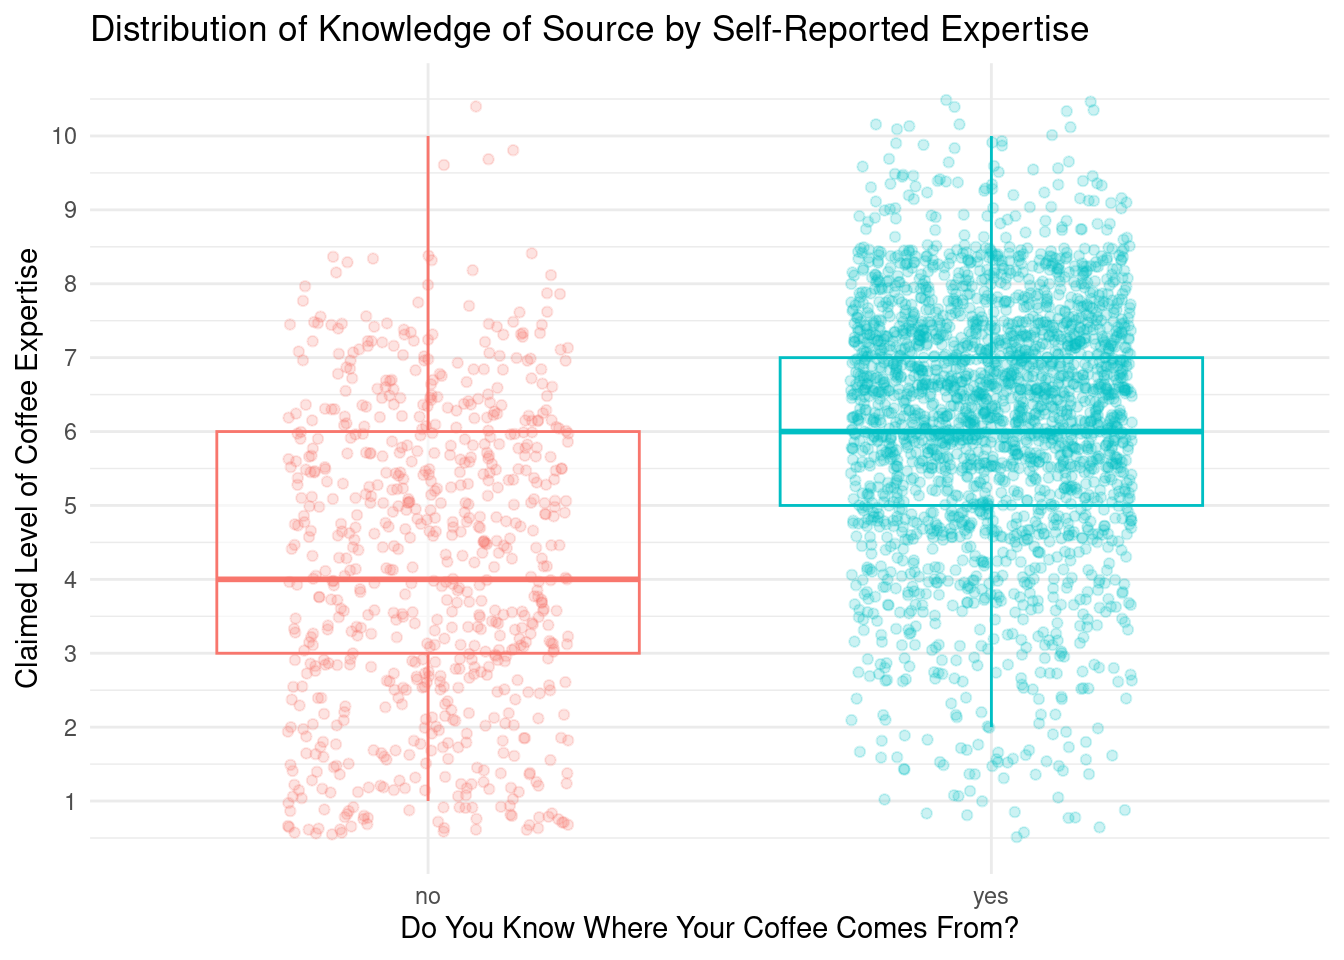
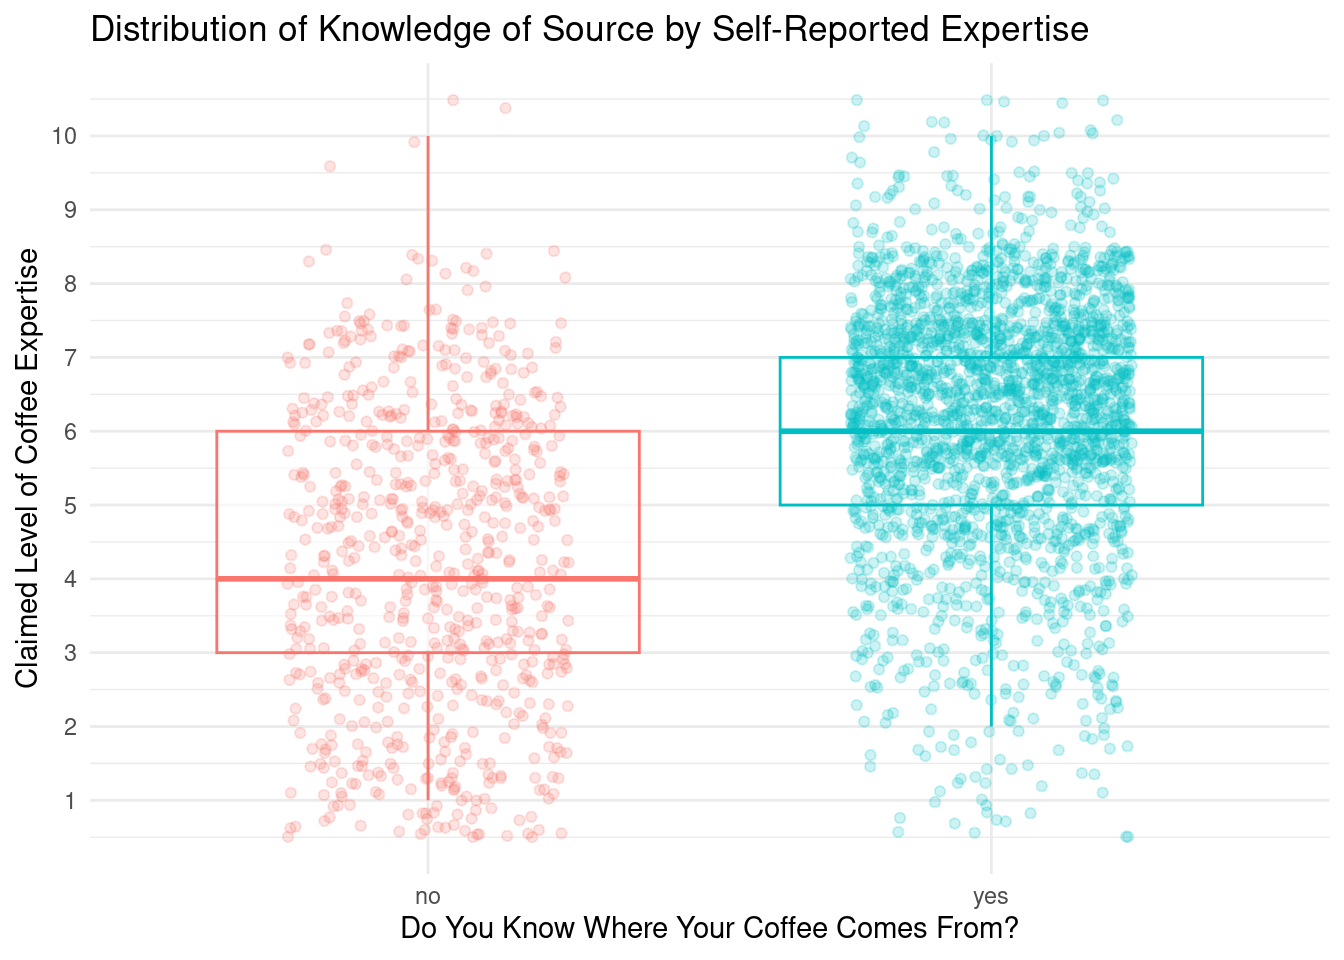
Built site for gh-pages

Changed region(s): [[0.625, 0.0938, 0.875, 0.875], [0.1875, 0.25, 0.4375, 0.875], [0.3438, 0.0938, 0.375, 0.125]]

diff --git a/tidytuesday2024/tidy20.html b/tidytuesday2024/tidy20.html
@@ -177,7 +177,7 @@ pre > code.sourceCode > span > a:first-child::before { text-decoration: underlin
   <li><a href="#results" id="toc-results" class="nav-link" data-scroll-target="#results">Results</a>
   <ul class="collapse">
   <li><a href="#drill-down" id="toc-drill-down" class="nav-link" data-scroll-target="#drill-down">Drill Down</a></li>
-  <li><a href="#bad-analysis" id="toc-bad-analysis" class="nav-link" data-scroll-target="#bad-analysis">Bad Analysis</a></li>
+  <li><a href="#responsible-analysis" id="toc-responsible-analysis" class="nav-link" data-scroll-target="#responsible-analysis">Responsible Analysis</a></li>
   </ul></li>
   </ul>
 </nav>
@@ -206,7 +206,7 @@ pre > code.sourceCode > span > a:first-child::before { text-decoration: underlin
 
 <section id="overview" class="level2">
 <h2 class="anchored" data-anchor-id="overview">Overview</h2>
-<p>In my first ever #tidytuesday we are taking a look at a coffee survey. I’ll make a note up front that I am prioritizing self education over analytical integrity here. Curiosity is in the drivers seat, so we are going to see where this takes us. Anything I present here is not intended to draw any conclusions or correlations. (I tried, and any statistically sound correlation just wasn’t there with this data). So let’s do some bad analytics instead.</p>
+<p>In my first ever #tidytuesday we are taking a look at a coffee survey. I’ll make a note up front that I am prioritizing self education over analytical integrity here. Curiosity is in the drivers seat, so we are going to see where this takes us. Anything I present here is not intended to draw any conclusions or correlations (I tried, and any statistically sound correlation just wasn’t there with this data).</p>
 </section>
 <section id="etl-let" class="level2">
 <h2 class="anchored" data-anchor-id="etl-let">ETL (LET)</h2>
@@ -216,7 +216,8 @@ pre > code.sourceCode > span > a:first-child::before { text-decoration: underlin
 <div class="cell">
 <div class="sourceCode cell-code" id="cb1"><pre class="sourceCode r code-with-copy"><code class="sourceCode r"><span id="cb1-1"><a href="#cb1-1" aria-hidden="true" tabindex="-1"></a><span class="fu">library</span>(tidytuesdayR)</span>
 <span id="cb1-2"><a href="#cb1-2" aria-hidden="true" tabindex="-1"></a><span class="fu">suppressMessages</span>(<span class="fu">library</span>(tidyverse))</span>
-<span id="cb1-3"><a href="#cb1-3" aria-hidden="true" tabindex="-1"></a><span class="fu">library</span>(knitr)</span></code><button title="Copy to Clipboard" class="code-copy-button"><i class="bi"></i></button></pre></div>
+<span id="cb1-3"><a href="#cb1-3" aria-hidden="true" tabindex="-1"></a><span class="fu">library</span>(ggforce)</span>
+<span id="cb1-4"><a href="#cb1-4" aria-hidden="true" tabindex="-1"></a><span class="fu">library</span>(knitr)</span></code><button title="Copy to Clipboard" class="code-copy-button"><i class="bi"></i></button></pre></div>
 </div>
 </section>
 <section id="extract" class="level3">
@@ -242,8 +243,9 @@ pre > code.sourceCode > span > a:first-child::before { text-decoration: underlin
 <span id="cb3-9"><a href="#cb3-9" aria-hidden="true" tabindex="-1"></a>                  most_paid, most_willing, value_cafe, spent_equipment,</span>
 <span id="cb3-10"><a href="#cb3-10" aria-hidden="true" tabindex="-1"></a>                  value_equipment, gender, education_level, ethnicity_race,</span>
 <span id="cb3-11"><a href="#cb3-11" aria-hidden="true" tabindex="-1"></a>                  employment_status, number_children, political_affiliation</span>
-<span id="cb3-12"><a href="#cb3-12" aria-hidden="true" tabindex="-1"></a>                  ), as.factor)</span>
-<span id="cb3-13"><a href="#cb3-13" aria-hidden="true" tabindex="-1"></a>         )</span></code><button title="Copy to Clipboard" class="code-copy-button"><i class="bi"></i></button></pre></div>
+<span id="cb3-12"><a href="#cb3-12" aria-hidden="true" tabindex="-1"></a>                  ), as.factor</span>
+<span id="cb3-13"><a href="#cb3-13" aria-hidden="true" tabindex="-1"></a>                )</span>
+<span id="cb3-14"><a href="#cb3-14" aria-hidden="true" tabindex="-1"></a>         )</span></code><button title="Copy to Clipboard" class="code-copy-button"><i class="bi"></i></button></pre></div>
 </div>
 </section>
 </section>
@@ -264,7 +266,7 @@ pre > code.sourceCode > span > a:first-child::before { text-decoration: underlin
 <span id="cb4-6"><a href="#cb4-6" aria-hidden="true" tabindex="-1"></a>                 <span class="st">"dairy"</span>,</span>
 <span id="cb4-7"><a href="#cb4-7" aria-hidden="true" tabindex="-1"></a>                 <span class="st">"sweetener"</span>,</span>
 <span id="cb4-8"><a href="#cb4-8" aria-hidden="true" tabindex="-1"></a>                 <span class="st">"why_drink"</span></span>
-<span id="cb4-9"><a href="#cb4-9" aria-hidden="true" tabindex="-1"></a>)</span>
+<span id="cb4-9"><a href="#cb4-9" aria-hidden="true" tabindex="-1"></a>                 )</span>
 <span id="cb4-10"><a href="#cb4-10" aria-hidden="true" tabindex="-1"></a></span>
 <span id="cb4-11"><a href="#cb4-11" aria-hidden="true" tabindex="-1"></a><span class="co"># Drop multi-value columns before dropping NA cells</span></span>
 <span id="cb4-12"><a href="#cb4-12" aria-hidden="true" tabindex="-1"></a>strip_tib <span class="ot">&lt;-</span> clean_tib <span class="sc">%&gt;%</span></span>
@@ -282,17 +284,22 @@ pre > code.sourceCode > span > a:first-child::before { text-decoration: underlin
 <div class="sourceCode cell-code" id="cb5"><pre class="sourceCode r code-with-copy"><code class="sourceCode r"><span id="cb5-1"><a href="#cb5-1" aria-hidden="true" tabindex="-1"></a>expertiseVknowsource_tib <span class="ot">&lt;-</span> strip_tib <span class="sc">%&gt;%</span></span>
 <span id="cb5-2"><a href="#cb5-2" aria-hidden="true" tabindex="-1"></a>  <span class="fu">select</span>(expertise, know_source)</span>
 <span id="cb5-3"><a href="#cb5-3" aria-hidden="true" tabindex="-1"></a></span>
-<span id="cb5-4"><a href="#cb5-4" aria-hidden="true" tabindex="-1"></a><span class="fu">ggplot</span>(expertiseVknowsource_tib, <span class="fu">aes</span>(<span class="at">x =</span> know_source, <span class="at">y =</span> <span class="fu">as.numeric</span>(expertise), <span class="at">color =</span> know_source)) <span class="sc">+</span></span>
-<span id="cb5-5"><a href="#cb5-5" aria-hidden="true" tabindex="-1"></a>  <span class="fu">geom_boxplot</span>(<span class="at">outlier.shape =</span> <span class="cn">NA</span>, <span class="at">alpha =</span> <span class="fl">0.6</span>) <span class="sc">+</span></span>
-<span id="cb5-6"><a href="#cb5-6" aria-hidden="true" tabindex="-1"></a>  <span class="fu">geom_jitter</span>(<span class="at">width =</span> <span class="fl">0.25</span>, <span class="at">height =</span> <span class="fl">0.5</span>, <span class="at">alpha =</span> <span class="fl">0.2</span>) <span class="sc">+</span></span>
-<span id="cb5-7"><a href="#cb5-7" aria-hidden="true" tabindex="-1"></a>  <span class="fu">scale_y_continuous</span>(<span class="at">breaks =</span> <span class="fu">seq</span>(<span class="dv">0</span>, <span class="dv">10</span>, <span class="at">by =</span> <span class="dv">1</span>)) <span class="sc">+</span></span>
-<span id="cb5-8"><a href="#cb5-8" aria-hidden="true" tabindex="-1"></a>  <span class="fu">labs</span>(</span>
-<span id="cb5-9"><a href="#cb5-9" aria-hidden="true" tabindex="-1"></a>    <span class="at">title =</span> <span class="st">"Distribution of Knowledge of Source by Self-Reported Expertise"</span>,</span>
-<span id="cb5-10"><a href="#cb5-10" aria-hidden="true" tabindex="-1"></a>    <span class="at">x =</span> <span class="st">"Do You Know Where Your Coffee Comes From?"</span>,</span>
-<span id="cb5-11"><a href="#cb5-11" aria-hidden="true" tabindex="-1"></a>    <span class="at">y =</span> <span class="st">"Claimed Level of Coffee Expertise"</span></span>
-<span id="cb5-12"><a href="#cb5-12" aria-hidden="true" tabindex="-1"></a>  ) <span class="sc">+</span></span>
-<span id="cb5-13"><a href="#cb5-13" aria-hidden="true" tabindex="-1"></a>  <span class="fu">theme_minimal</span>() <span class="sc">+</span></span>
-<span id="cb5-14"><a href="#cb5-14" aria-hidden="true" tabindex="-1"></a>  <span class="fu">theme</span>(<span class="at">legend.position =</span> <span class="st">"none"</span>)</span></code><button title="Copy to Clipboard" class="code-copy-button"><i class="bi"></i></button></pre></div>
+<span id="cb5-4"><a href="#cb5-4" aria-hidden="true" tabindex="-1"></a><span class="fu">set.seed</span>(<span class="dv">357</span>)</span>
+<span id="cb5-5"><a href="#cb5-5" aria-hidden="true" tabindex="-1"></a>jitter <span class="ot">&lt;-</span> <span class="fu">position_jitter</span>(<span class="at">width =</span> <span class="fl">0.25</span>, <span class="at">height =</span> <span class="fl">0.5</span>)</span>
+<span id="cb5-6"><a href="#cb5-6" aria-hidden="true" tabindex="-1"></a></span>
+<span id="cb5-7"><a href="#cb5-7" aria-hidden="true" tabindex="-1"></a>p <span class="ot">&lt;-</span> <span class="fu">ggplot</span>(expertiseVknowsource_tib, <span class="fu">aes</span>(<span class="at">x =</span> know_source, <span class="at">y =</span> <span class="fu">as.numeric</span>(expertise), <span class="at">color =</span> know_source)) <span class="sc">+</span></span>
+<span id="cb5-8"><a href="#cb5-8" aria-hidden="true" tabindex="-1"></a>  <span class="fu">geom_boxplot</span>(<span class="at">outlier.shape =</span> <span class="cn">NA</span>, <span class="at">alpha =</span> <span class="fl">0.6</span>) <span class="sc">+</span></span>
+<span id="cb5-9"><a href="#cb5-9" aria-hidden="true" tabindex="-1"></a>  <span class="fu">geom_jitter</span>(<span class="at">position =</span> jitter, <span class="at">alpha =</span> <span class="fl">0.2</span>) <span class="sc">+</span></span>
+<span id="cb5-10"><a href="#cb5-10" aria-hidden="true" tabindex="-1"></a>  <span class="fu">scale_y_continuous</span>(<span class="at">breaks =</span> <span class="fu">seq</span>(<span class="dv">0</span>, <span class="dv">10</span>, <span class="at">by =</span> <span class="dv">1</span>)) <span class="sc">+</span></span>
+<span id="cb5-11"><a href="#cb5-11" aria-hidden="true" tabindex="-1"></a>  <span class="fu">labs</span>(</span>
+<span id="cb5-12"><a href="#cb5-12" aria-hidden="true" tabindex="-1"></a>    <span class="at">title =</span> <span class="st">"Distribution of Knowledge of Source by Self-Reported Expertise"</span>,</span>
+<span id="cb5-13"><a href="#cb5-13" aria-hidden="true" tabindex="-1"></a>    <span class="at">x =</span> <span class="st">"Do You Know Where Your Coffee Comes From?"</span>,</span>
+<span id="cb5-14"><a href="#cb5-14" aria-hidden="true" tabindex="-1"></a>    <span class="at">y =</span> <span class="st">"Claimed Level of Coffee Expertise"</span></span>
+<span id="cb5-15"><a href="#cb5-15" aria-hidden="true" tabindex="-1"></a>  ) <span class="sc">+</span></span>
+<span id="cb5-16"><a href="#cb5-16" aria-hidden="true" tabindex="-1"></a>  <span class="fu">theme_minimal</span>() <span class="sc">+</span></span>
+<span id="cb5-17"><a href="#cb5-17" aria-hidden="true" tabindex="-1"></a>  <span class="fu">theme</span>(<span class="at">legend.position =</span> <span class="st">"none"</span>)</span>
+<span id="cb5-18"><a href="#cb5-18" aria-hidden="true" tabindex="-1"></a></span>
+<span id="cb5-19"><a href="#cb5-19" aria-hidden="true" tabindex="-1"></a>p</span></code><button title="Copy to Clipboard" class="code-copy-button"><i class="bi"></i></button></pre></div>
 <div class="cell-output-display">
 <div>
 <figure class="figure">
@@ -307,19 +314,39 @@ pre > code.sourceCode > span > a:first-child::before { text-decoration: underlin
 <h2 class="anchored" data-anchor-id="results">Results</h2>
 <p>Not too suprising. The more you claim to know about coffee the more likely you are to also claim to know where your coffee comes from.</p>
 <p>But who are those four coffee geniuses who don’t care where their coffee comes from?</p>
+<div class="cell">
+<div class="sourceCode cell-code" id="cb6"><pre class="sourceCode r code-with-copy"><code class="sourceCode r"><span id="cb6-1"><a href="#cb6-1" aria-hidden="true" tabindex="-1"></a><span class="fu">set.seed</span>(<span class="dv">357</span>)</span>
+<span id="cb6-2"><a href="#cb6-2" aria-hidden="true" tabindex="-1"></a></span>
+<span id="cb6-3"><a href="#cb6-3" aria-hidden="true" tabindex="-1"></a>p_hilite <span class="ot">&lt;-</span> p <span class="sc">+</span></span>
+<span id="cb6-4"><a href="#cb6-4" aria-hidden="true" tabindex="-1"></a>  <span class="fu">geom_mark_ellipse</span>(<span class="fu">aes</span>(<span class="at">fill =</span> know_source,</span>
+<span id="cb6-5"><a href="#cb6-5" aria-hidden="true" tabindex="-1"></a>                        <span class="at">filter =</span> (know_source <span class="sc">==</span> <span class="st">"no"</span>) <span class="sc">&amp;</span> (expertise <span class="sc">==</span> <span class="dv">10</span>),</span>
+<span id="cb6-6"><a href="#cb6-6" aria-hidden="true" tabindex="-1"></a>                        <span class="at">description =</span> <span class="st">"Geniuses"</span>),</span>
+<span id="cb6-7"><a href="#cb6-7" aria-hidden="true" tabindex="-1"></a>                    <span class="at">con.type =</span> <span class="st">"none"</span>,</span>
+<span id="cb6-8"><a href="#cb6-8" aria-hidden="true" tabindex="-1"></a>                    <span class="at">position =</span> jitter</span>
+<span id="cb6-9"><a href="#cb6-9" aria-hidden="true" tabindex="-1"></a>  )</span>
+<span id="cb6-10"><a href="#cb6-10" aria-hidden="true" tabindex="-1"></a></span>
+<span id="cb6-11"><a href="#cb6-11" aria-hidden="true" tabindex="-1"></a>p_hilite</span></code><button title="Copy to Clipboard" class="code-copy-button"><i class="bi"></i></button></pre></div>
+<div class="cell-output-display">
+<div>
+<figure class="figure">
+<p><img src="tidy20_files/figure-html/plot highlight-1.png" class="img-fluid figure-img" width="672"></p>
+</figure>
+</div>
+</div>
+</div>
+<p>You may notice I am having a bit of trouble syncing the jitter values applied to the plot with the jitter values used by mark_ellipse. I set them explicitly before plotting but it seems they still don’t necessarily agree.</p>
 <section id="drill-down" class="level3">
 <h3 class="anchored" data-anchor-id="drill-down">Drill Down</h3>
 <p>I must know more about them</p>
 <div class="cell">
-<div class="sourceCode cell-code" id="cb6"><pre class="sourceCode r code-with-copy"><code class="sourceCode r"><span id="cb6-1"><a href="#cb6-1" aria-hidden="true" tabindex="-1"></a>expVsource_outliers <span class="ot">&lt;-</span> strip_tib <span class="sc">%&gt;%</span></span>
-<span id="cb6-2"><a href="#cb6-2" aria-hidden="true" tabindex="-1"></a>  <span class="fu">mutate</span>(<span class="at">expertise =</span> <span class="fu">as.integer</span>(expertise)) <span class="sc">%&gt;%</span></span>
-<span id="cb6-3"><a href="#cb6-3" aria-hidden="true" tabindex="-1"></a>  <span class="fu">filter</span>(expertise <span class="sc">&gt;</span> <span class="dv">9</span>) <span class="sc">%&gt;%</span></span>
-<span id="cb6-4"><a href="#cb6-4" aria-hidden="true" tabindex="-1"></a>  <span class="fu">filter</span>(<span class="fu">str_detect</span>(know_source, <span class="st">"no"</span>))</span>
-<span id="cb6-5"><a href="#cb6-5" aria-hidden="true" tabindex="-1"></a></span>
-<span id="cb6-6"><a href="#cb6-6" aria-hidden="true" tabindex="-1"></a></span>
-<span id="cb6-7"><a href="#cb6-7" aria-hidden="true" tabindex="-1"></a><span class="fu">kable</span>(</span>
-<span id="cb6-8"><a href="#cb6-8" aria-hidden="true" tabindex="-1"></a>  expVsource_outliers</span>
-<span id="cb6-9"><a href="#cb6-9" aria-hidden="true" tabindex="-1"></a>)</span></code><button title="Copy to Clipboard" class="code-copy-button"><i class="bi"></i></button></pre></div>
+<div class="sourceCode cell-code" id="cb7"><pre class="sourceCode r code-with-copy"><code class="sourceCode r"><span id="cb7-1"><a href="#cb7-1" aria-hidden="true" tabindex="-1"></a>expVsource_outliers <span class="ot">&lt;-</span> strip_tib <span class="sc">%&gt;%</span></span>
+<span id="cb7-2"><a href="#cb7-2" aria-hidden="true" tabindex="-1"></a>  <span class="fu">mutate</span>(<span class="at">expertise =</span> <span class="fu">as.integer</span>(expertise)) <span class="sc">%&gt;%</span></span>
+<span id="cb7-3"><a href="#cb7-3" aria-hidden="true" tabindex="-1"></a>  <span class="fu">filter</span>(expertise <span class="sc">==</span> <span class="dv">10</span>) <span class="sc">%&gt;%</span></span>
+<span id="cb7-4"><a href="#cb7-4" aria-hidden="true" tabindex="-1"></a>  <span class="fu">filter</span>(<span class="fu">str_detect</span>(know_source, <span class="st">"no"</span>))</span>
+<span id="cb7-5"><a href="#cb7-5" aria-hidden="true" tabindex="-1"></a></span>
+<span id="cb7-6"><a href="#cb7-6" aria-hidden="true" tabindex="-1"></a><span class="fu">kable</span>(</span>
+<span id="cb7-7"><a href="#cb7-7" aria-hidden="true" tabindex="-1"></a>  expVsource_outliers</span>
+<span id="cb7-8"><a href="#cb7-8" aria-hidden="true" tabindex="-1"></a>)</span></code><button title="Copy to Clipboard" class="code-copy-button"><i class="bi"></i></button></pre></div>
 <div class="cell-output-display">
 <table class="table table-sm table-striped small">
 <colgroup>
@@ -486,8 +513,8 @@ pre > code.sourceCode > span > a:first-child::before { text-decoration: underlin
 </div>
 </div>
 </section>
-<section id="bad-analysis" class="level3">
-<h3 class="anchored" data-anchor-id="bad-analysis">Bad Analysis</h3>
+<section id="responsible-analysis" class="level3">
+<h3 class="anchored" data-anchor-id="responsible-analysis">Responsible Analysis</h3>
 <p>Let’s remind ourselves that we left sound analysis practices behind at this point. We are simply having fun. These are outliers and ZERO conclusions can be drawn from digging into their data. So lets just stop here.</p>
 
 
